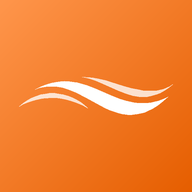
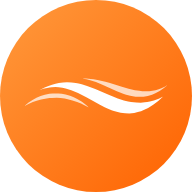
Add files via upload

diff --git a/sw.js b/sw.js
@@ -1,4 +1,4 @@
-const C="wave-v14",A=["./","./index.html","./manifest.webmanifest","./icon-192.png","./icon-512.png"];
+const C="wave-v15",A=["./","./index.html","./manifest.webmanifest","./icon-192.png","./icon-512.png","./icon-maskable-192.png","./icon-maskable-512.png"];
 /* strip the "redirected" flag so a cached page can be served for navigations */
 const clean=async r=>{if(!r||!r.redirected)return r;const b=await r.blob();return new Response(b,{status:r.status,statusText:r.statusText,headers:r.headers})};
 self.addEventListener("install",e=>{e.waitUntil((async()=>{const c=await caches.open(C);for(const u of A){try{const r=await fetch(new Request(u,{cache:"reload"}));if(r.ok)await c.put(u,await clean(r))}catch(x){}}self.skipWaiting()})())});
